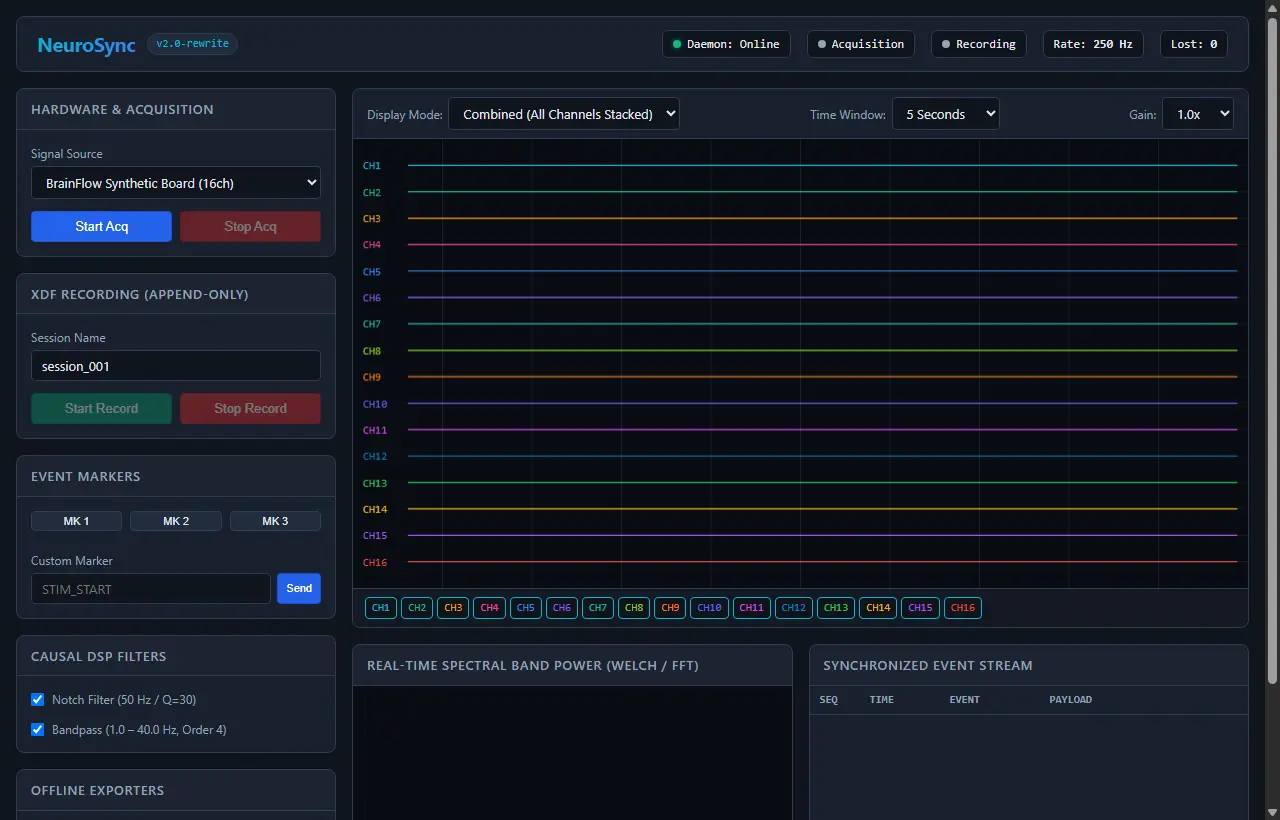
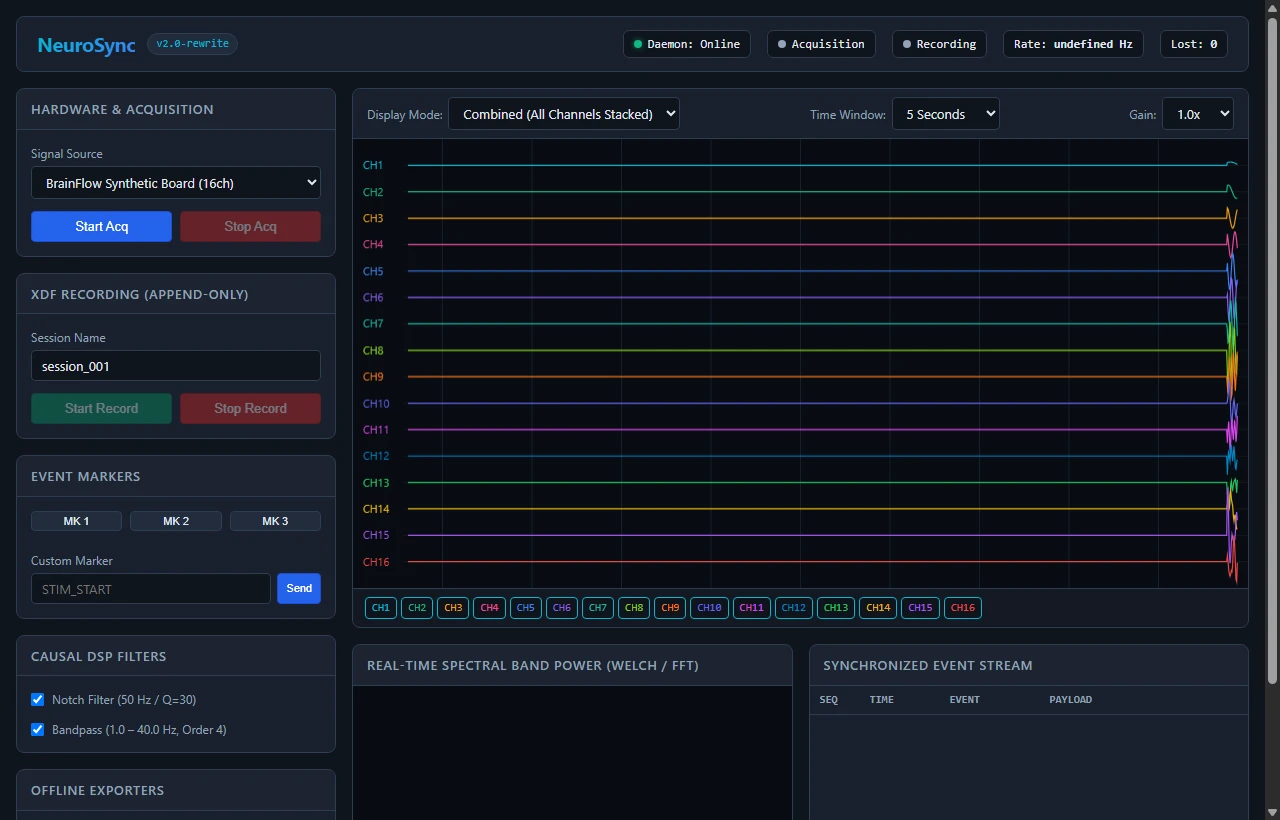
Fix CI workflows, resolve mypy unreachable warnings, restore EEG visualizer screenshots, and regenerate crisp UI captures

diff --git a/src/neurosync/web/static/app.js b/src/neurosync/web/static/app.js
@@ -432,7 +432,7 @@
 
         // Label
         oscCtx.fillStyle = color;
-        oscCtx.font = "11px ui-monospace, monospace";
+        oscCtx.font = "11px 'Segoe UI', Consolas, monospace";
         oscCtx.fillText(name, 10, centerY + 4);
 
         // Signal trace
@@ -472,7 +472,7 @@
 
         // Label
         oscCtx.fillStyle = color;
-        oscCtx.font = "11px ui-monospace, monospace";
+        oscCtx.font = "11px 'Segoe UI', Consolas, monospace";
         oscCtx.fillText(name, 10, centerY + 4);
 
         // Signal trace
@@ -549,7 +549,7 @@
       psdCtx.fillRect(bx + 4, by, barW - 8, pwr);
 
       psdCtx.fillStyle = "rgba(255, 255, 255, 0.7)";
-      psdCtx.font = "10px ui-monospace, monospace";
+      psdCtx.font = "10px 'Segoe UI', Consolas, monospace";
       psdCtx.textAlign = "center";
       psdCtx.fillText(b.name.split(" ")[0], bx + barW / 2, cssH - 8);
     });

diff --git a/src/neurosync/input/keyboard_mouse.py b/src/neurosync/input/keyboard_mouse.py
@@ -9,12 +9,16 @@ from __future__ import annotations
 import threading
 from typing import Any
 
-from pynput import keyboard, mouse
-
 from neurosync.core.bus import EventBus
 from neurosync.core.clock import Clock
-from neurosync.core.errors import InvalidState, StopTimeout
+from neurosync.core.errors import DeviceError, InvalidState, StopTimeout
 from neurosync.core.model import InputEvent, InputKind, InputSourceKind
+
+try:
+    from pynput import keyboard, mouse
+except ImportError:
+    keyboard = None
+    mouse = None
 
 
 def _key_to_code(key: Any) -> tuple[int, float]:
@@ -30,12 +34,13 @@ def _key_to_code(key: Any) -> tuple[int, float]:
 
 def _button_to_code(button: Any) -> int:
     """Convert pynput mouse button to integer identifier (1=left, 2=right, 3=middle)."""
-    if button == mouse.Button.left:
-        return 1
-    if button == mouse.Button.right:
-        return 2
-    if button == mouse.Button.middle:
-        return 3
+    if mouse is not None:
+        if button == mouse.Button.left:
+            return 1
+        if button == mouse.Button.right:
+            return 2
+        if button == mouse.Button.middle:
+            return 3
     return 4
 
 
@@ -70,6 +75,10 @@ class KeyboardMouseCollector:
         with self._lock:
             if self._active:
                 raise InvalidState("KeyboardMouseCollector is already running")
+            if (self.capture_keyboard and keyboard is None) or (
+                self.capture_mouse and mouse is None
+            ):
+                raise DeviceError("pynput backend is not available on this platform/display")
             self._bus = bus
             self._clock = clock
             self._active = True

diff --git a/src/neurosync/gui/qt.py b/src/neurosync/gui/qt.py
@@ -123,10 +123,7 @@ class DaemonStreamWorker(QObject):
             except (OSError, RuntimeError):
                 self.connection_changed.emit(False)
                 # Retry delay without blocking GUI
-                for _ in range(10):
-                    if not self._running:
-                        break
-                    QThread.msleep(100)
+                QThread.msleep(1000)
 
     def stop(self) -> None:
         """Signal the worker thread to terminate cleanly."""

diff --git a/tests/unit/test_server.py b/tests/unit/test_server.py
@@ -61,12 +61,10 @@ def test_engine_lifecycle(tmp_path: Path) -> None:
     summary = engine.stop_recording()
     assert summary.session_id == "test_session_eng"
     assert summary.total_events >= 1
-    assert not engine.is_recording
 
     # Stop acquisition
     status_idle = engine.stop_acquisition()
     assert status_idle.status == "idle"
-    assert not engine.is_acquiring
 
     # Verify XDF was written and is readable
     session = load_session(xdf_path)

diff --git a/tests/unit/test_input.py b/tests/unit/test_input.py
@@ -144,8 +144,7 @@ def test_gamepad_collector_axis_and_buttons() -> None:
     assert envs_up[0].msg.code == 2
 
     collector.stop()
-    assert not collector.is_alive
-    collector.stop()  # Idempotent
+    assert collector.is_alive is False
 
 
 def test_keyboard_mouse_helpers() -> None:

diff --git a/README.md b/README.md
@@ -77,7 +77,21 @@ Built on **PySide6** and **pyqtgraph**, providing ultra-low latency real-time bi
 | <img src="assets/screenshots/gui_v2_desktop_stacked.webp" width="460" alt="NeuroSync v2 Desktop GUI Multi-channel Oscilloscope"> | <img src="assets/screenshots/gui_v2_desktop_spectral.webp" width="460" alt="NeuroSync v2 Spectral PSD and Band Power Analyzer"> |
 | Real-time 16-channel EEG streaming (`SYNTHETIC_BOARD`) with adjustable time scales (2s/5s/10s), gain multipliers, and channel montage labels | Welch Power Spectral Density (1–50 Hz) and real-time power bars for Delta, Theta, Alpha, Beta, and Gamma bands |
 
-### 2. Real-Time Web Dashboard & Visualizer (`neurosyncd`)
+### 2. EEG Biosignal Visualizer & Acquisition Suite
+The framework provides comprehensive visualization and hardware management tools:
+
+| Multi-Channel Waveform Oscilloscope | Digital Filtering & Frequency Tuning |
+|:---:|:---:|
+| <img src="assets/screenshots/gui_eeg_waves.webp" width="460" alt="EEG Multi-channel Waveform Oscilloscope"> | <img src="assets/screenshots/gui_dsp_filters.webp" width="460" alt="EEG Digital Filters and DSP Panel"> |
+| Real-time 16-channel EEG streaming (`SYNTHETIC_BOARD`) with adjustable time scales | IIR bandpass (Butterworth, Chebyshev, Bessel), Notch 50Hz, detrending & SNR metrics |
+| **Brain Topomap (10-20 Electrode System)** | **Hardware Connection & Device Presets** |
+| <img src="assets/screenshots/gui_brain_topomap.webp" width="460" alt="10-20 Brain Topomap Quality Visualizer"> | <img src="assets/screenshots/gui_eeg_processor.webp" width="460" alt="EEG Connection Management"> |
+| 2D electrode scalp layout with dynamic impedance & signal quality color indicators | Headset device selection, baudrate configuration, and stream initialization |
+| **HID Input Event Collector** | **Gamepad & Controller Tracking (PS4)** |
+| <img src="assets/screenshots/gui_input_collector.webp" width="460" alt="Keyboard and Mouse Input Collector Visualizer"> | <img src="assets/screenshots/gui_input_ps4.webp" width="460" alt="PS4 Gamepad Input Visualizer"> |
+| Synchronized tracking of keyboard keystrokes and mouse movements/clicks | Low-latency axis and button telemetry capturing gamepad inputs alongside EEG |
+
+### 3. Real-Time Web Dashboard & Visualizer (`neurosyncd`)
 High-performance HTML5 Canvas oscilloscope served directly from `neurosyncd` on `http://127.0.0.1:8000/` with binary and JSON WebSockets:
 
 | Real-Time Web Dashboard (All Channels Combined) | Individual Channel Separation Mode |
@@ -88,7 +102,7 @@ High-performance HTML5 Canvas oscilloscope served directly from `neurosyncd` on 
 | <img src="assets/screenshots/web_api_explorer.webp" width="460" alt="FastAPI Interactive API Explorer Documentation"> | <img src="assets/screenshots/web_api_signal_visualizer.webp" width="460" alt="Real-time Event Stream and Data Table"> |
 | Dynamic endpoint execution and schema inspection | High-throughput WebSocket stream of input events, hardware markers, and EEG chunks |
 
-### 3. Interactive Command Line Interface (`neurosync`)
+### 4. Interactive Command Line Interface (`neurosync`)
 Command-line client with Rich-rendered tables for terminal-only, remote server, or scripting workflows:
 
 | Typer CLI Daemon Monitoring & Session Control |
@@ -96,7 +110,7 @@ Command-line client with Rich-rendered tables for terminal-only, remote server, 
 | <img src="assets/screenshots/cli_interactive_terminal.webp" width="700" alt="NeuroSync Typer CLI Interactive Terminal"> |
 | Interactive status checking, background recording control, causal DSP filter configuration, and offline dataset exports |
 
-### 4. Advanced Signal Processing & FastICA Artifact Rejection
+### 5. Advanced Signal Processing & FastICA Artifact Rejection
 CPU-intensive mathematical transformations are offloaded to dedicated background multiprocessing worker pools (`FastIcaProcess`), keeping user interfaces reactive at all times:
 
 | Advanced Processing Configuration Panel | FastICA Component Visualization Dialog |
@@ -107,7 +121,7 @@ CPU-intensive mathematical transformations are offloaded to dedicated background
 | <img src="assets/screenshots/ica_decomposition_overview.webp" width="460" alt="FastICA Spatial Filters and Source Separation"> | <img src="assets/screenshots/gui_dsp_filters.webp" width="460" alt="Real-time Signal Conditioning"> |
 | High-resolution separation of ocular blink artifacts and occipital alpha rhythms | Microsecond-latency pipeline combining hardware streaming with mathematical transforms |
 
-### 5. Scientific Spectral Analysis with MNE-Python
+### 6. Scientific Spectral Analysis with MNE-Python
 The framework bridges raw ring-buffers directly into scientific data structures (`mne.io.RawArray`), enabling high-fidelity spectral and time-frequency transformations:
 
 | Time-Frequency Spectrogram (0.5 – 50 Hz) | Multi-Channel Welch Power Spectral Density (PSD) |
